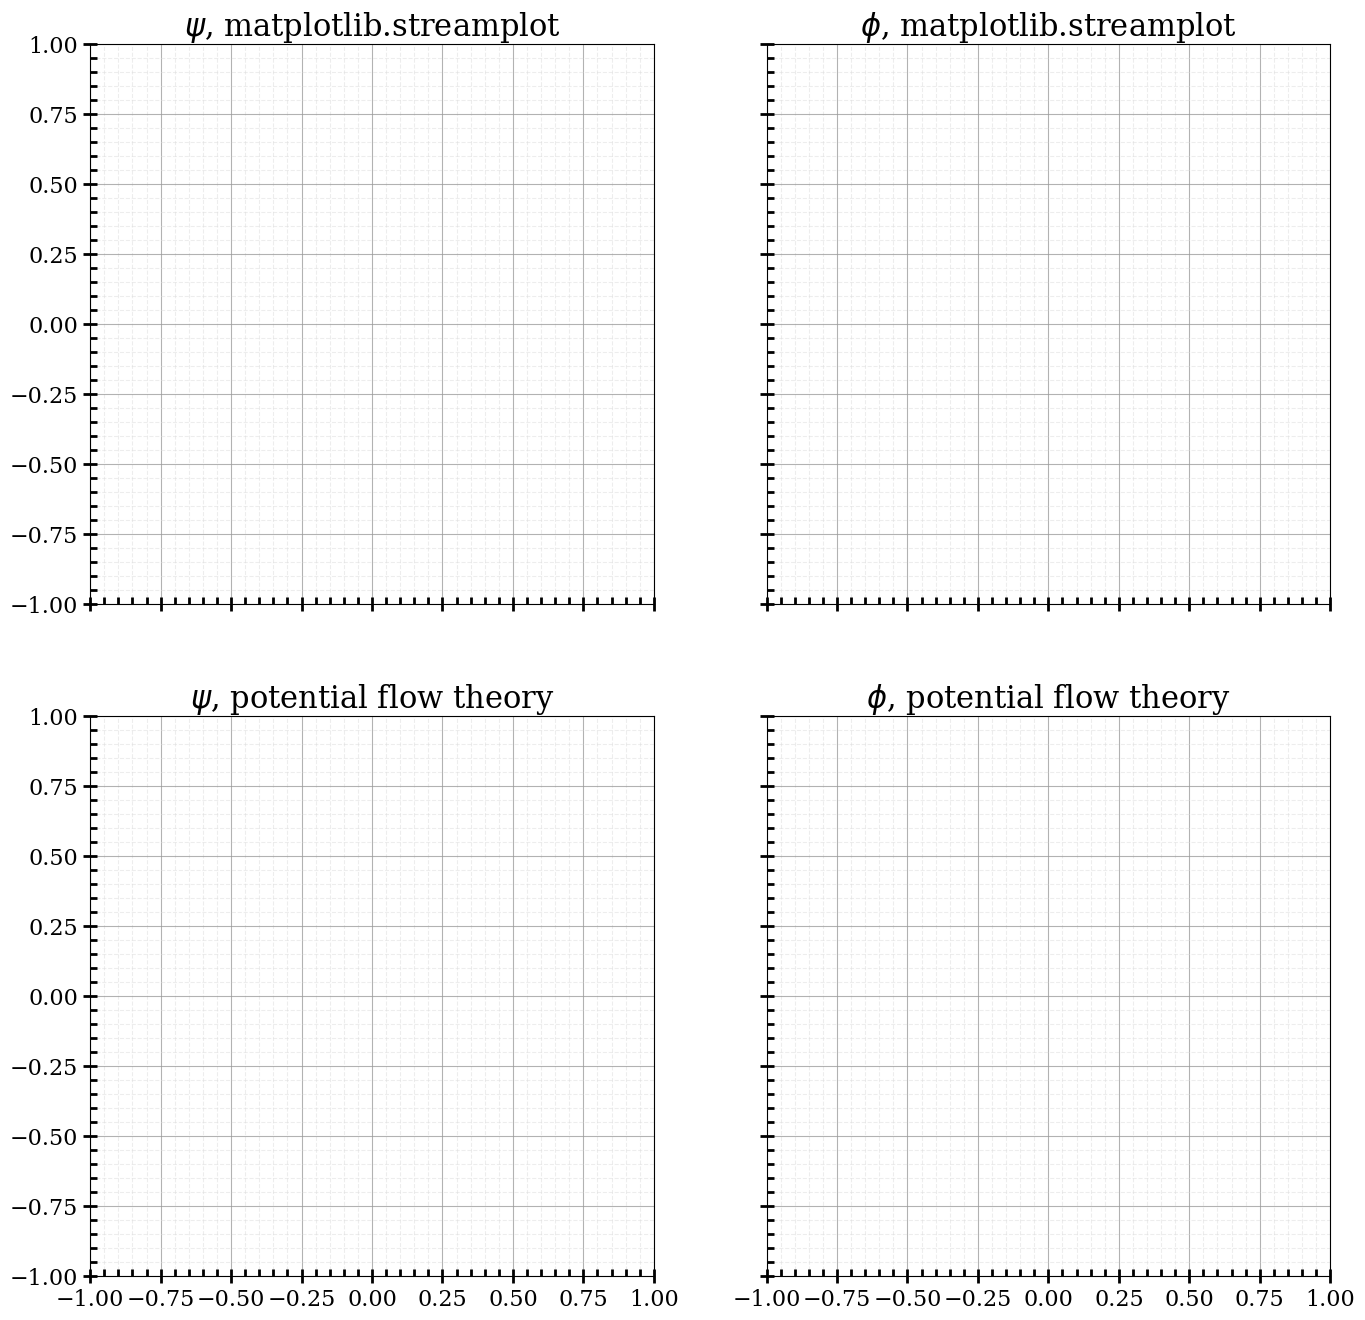
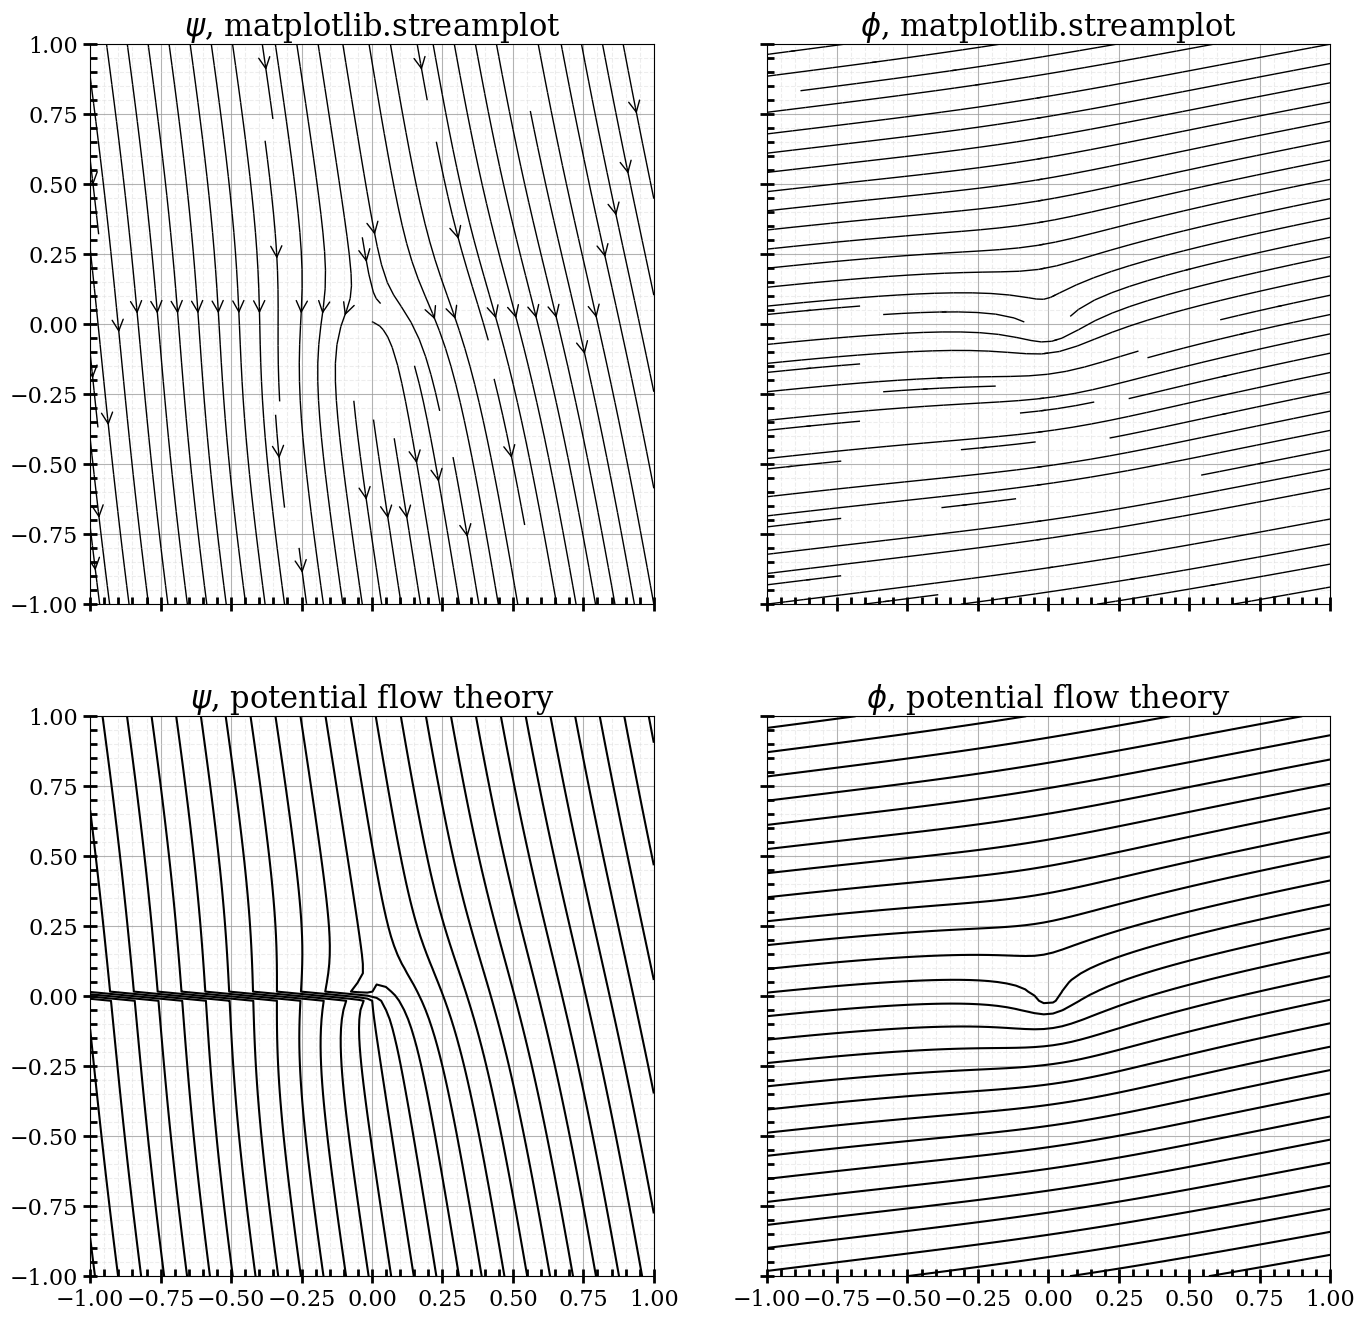
Added dynamic flowlist (proof of concept)

diff --git a/main.py b/main.py
@@ -129,7 +129,6 @@ with rotating_cylinder:
         st.session_state['grid'].add_RotatingCylinder( speed, strength, radius, (xpos,ypos))
         st.session_state['update_trigger'] = True
 
-
 #### ================== ####
 #### Update Information ####
 #### ================== ####
@@ -171,6 +170,24 @@ if st.session_state['update_trigger']:
     ## Remove update trigger at the end of update
     st.session_state['update_trigger'] = False
 
+
 # st.text(st.session_state['path']  + '\images\streamline_potential.png')
 image = Image.open('images\streamline_potential.png')
 st.image(image, use_column_width = True)
+
+## Do a super-hack:
+## I would normally not do the redundant line of making option = flowobj
+## but it seems that option is a session-state variable, and not the actual grid object itself
+## therefore you cannot modify option, but can modify flowobj
+option = st.selectbox("TEST", options=st.session_state['grid'].flowlist)
+flowobj = [obj for obj in st.session_state['grid'].flowlist if obj == option][0]
+
+if flowobj.type == 'Uniform':
+    speed       = st.number_input("Freestream speed", value=flowobj.Vinfty, key='tmp1')
+    angle       = st.number_input("Angle-of-attack in degrees", value=flowobj.angle, key='tmp2')
+
+    if st.button("Update",key='tmp3'):
+        flowobj.Vinfty = float(speed)
+        flowobj.angle = float(angle)
+
+        st.session_state['update_trigger'] = True

diff --git a/lib/elemflows/uniform.py b/lib/elemflows/uniform.py
@@ -16,8 +16,10 @@ class FlowUniform:
     Vinfty: float
     angle: float
 
+    type: str = field(init=False, repr=False)
+
     def __post_init__(self) -> None:
-        pass
+        self.type = 'Uniform'
 
     def calculate_contribution(self, x, y) -> tuple[float,float,npt.NDArray[np.float32],npt.NDArray[np.float32]]:
         du      = self.Vinfty*np.cos(self.angle)

diff --git a/lib/presets/rotatingcylinder.py b/lib/presets/rotatingcylinder.py
@@ -20,8 +20,10 @@ class PresetRotatingCylinder:
 
     x0: float = field(init=False, repr=False)
     y0: float = field(init=False, repr=False)
+    type: str = field(init=False, repr=False)
 
     def __post_init__(self) -> None:
+        self.type = 'RotatingCylinder'
         self.x0 = self.position[0]
         self.y0 = self.position[1]
 

diff --git a/lib/presets/cylinder.py b/lib/presets/cylinder.py
@@ -19,8 +19,10 @@ class PresetCylinder:
 
     x0: float = field(init=False, repr=False)
     y0: float = field(init=False, repr=False)
+    type: str = field(init=False, repr=False)
 
     def __post_init__(self) -> None:
+        self.type = 'Cylinder'
         self.x0 = self.position[0]
         self.y0 = self.position[1]
 

diff --git a/lib/elemflows/doublet.py b/lib/elemflows/doublet.py
@@ -18,8 +18,10 @@ class FlowDoublet:
 
     x0: float = field(init=False, repr=False)
     y0: float = field(init=False, repr=False)
+    type: str = field(init=False, repr=False)
 
     def __post_init__(self) -> None:
+        self.type = 'Doublet'
         self.x0 = self.position[0]
         self.y0 = self.position[1]
 

diff --git a/lib/elemflows/source.py b/lib/elemflows/source.py
@@ -18,8 +18,10 @@ class FlowSource:
 
     x0: float = field(init=False, repr=False)
     y0: float = field(init=False, repr=False)
+    type: str = field(init=False, repr=False)
 
     def __post_init__(self) -> None:
+        self.type = 'Source'
         self.x0 = self.position[0]
         self.y0 = self.position[1]
 

diff --git a/lib/elemflows/vortex.py b/lib/elemflows/vortex.py
@@ -18,8 +18,10 @@ class FlowVortex:
 
     x0: float = field(init=False, repr=False)
     y0: float = field(init=False, repr=False)
+    type: str = field(init=False, repr=False)
 
     def __post_init__(self) -> None:
+        self.type = 'Vortex'
         self.x0 = self.position[0]
         self.y0 = self.position[1]
 
